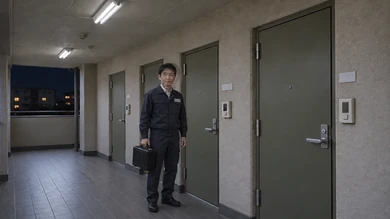
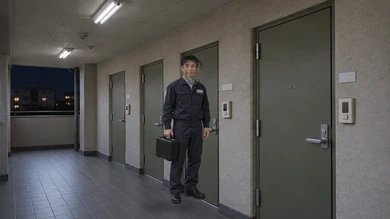
assets(k1): align pilot people to camera plate

Changed region(s): [[0.3385, 0.2466, 0.5538, 0.9863]]

diff --git a/k1/assets/review/pilot/qa.md b/k1/assets/review/pilot/qa.md
@@ -20,7 +20,7 @@
 
 ## 差分整合
 
-- 大野の通常版と異変版は同一の通常画像をピクセル基準として使用。最終デコード画像での変更範囲は頭部付近のみ（差分bbox: x=526..603, y=200..296）。廊下・扉・照明・床は変更していない。
+- 大野の通常版と異変版は同一の`camera/empty/normal.webp` を共通背景にし、透過切り抜きの人物を合成した。通常版と異変版は同一フレームを共有し、最終デコード画像での変更範囲は頭部付近のみ（差分bbox: `(592, 184, 669, 280)`）。廊下・扉・照明・床は変更していない。
 - 無人廊下の再確認版も通常版を基準に合成。最終デコード画像での変更範囲は親機追加部分のみ（差分bbox: x=1118..1200, y=188..302）。背景・カメラ位置・構造は固定。
 - 玄関室内側の親機写真を小さく切り出し、暗い無表示画面にして転用した。廊下側に現れること自体が異変。
 - カメラ操作UI・日時・部屋番号・ロゴは焼き込んでいない。
